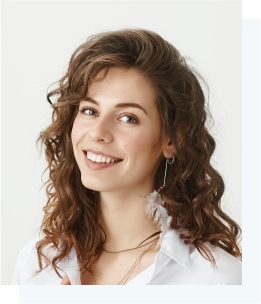
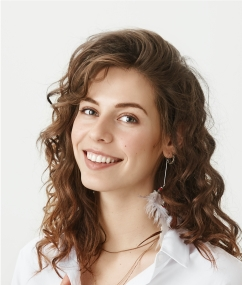
training

diff --git a/resources/assets/styles/components/objective.scss b/resources/assets/styles/components/objective.scss
@@ -7,22 +7,97 @@
   @media (max-width: 575px) {
     padding-top: 60px;
   }
+  &__bg-image {
+    float: right;
+    width: 100%;
+    max-width: 273px;
+    height: 153px;
+    position: relative;
+    @media (max-width: 767px) {
+      max-width: 150px;
+      height: 77px;
+    }
+    @media (max-width: 400px) {
+      max-width: 120px;
+      height: 55px;
+    }
+    &:before {
+      content: "";
+      position: absolute;
+      width: 100%;
+      height: 100%;
+      left: 25px;
+      top: 25px;
+      background: #f3f9fa;
+      z-index: -12;
+    }
+  }
+  &__line-bg {
+    width: 100%;
+    height: 100%;
+    position: relative;
+    &:first-child {
+      max-width: 306px;
+      margin-left: 16px;
+      margin-top: -82px;
+      height: 403px;
+      @media (max-width: 767px) {
+        max-width: 230px;
+        height: 300px;
+        margin-left: 0;
+      }
+      @media (max-width: 575px) {
+        max-width: 170px;
+        height: 250px;
+        margin-top: 0;
+      }
+    }
+    &:last-child {
+      margin-left: 90px;
+      margin-top: 125px;
+      max-width: 261px;
+      height: 304px;
+      @media (max-width: 1060px) {
+        margin-left: 40px;
+      }
+      @media (max-width: 767px) {
+        max-width: 130px;
+        height: 200px;
+        margin-top: 95px;
+        margin-left: 75px;
+      }
+      @media (max-width: 575px) {
+        max-width: 130px;
+        height: 150px;
+      }
+      @media (max-width: 400px) {
+        margin-left: 20px;
+      }
+    }
+    /*&:before {
+      content: "";
+      position: absolute;
+      width: 100%;
+      height: 100%;
+      left: 25px;
+      top: 25px;
+      background: #f3f9fa;
+      z-index: -12;
+    }*/
+  }
   &__right {
     width: 100%;
+    height: 100%;
     @media (max-width: 991px) {
       order: 1;
       display: flex;
       flex-direction: column;
       align-items: flex-end;
     }
-    img:first-child {
-      float: right;
-      @media (max-width: 767px) {
-        max-width: 150px;
-      }
-      @media (max-width: 400px) {
-        max-width: 120px;
-      }
+    &-img {
+      background-size: cover;
+      width: 100%;
+      height: 100%;
     }
   }
   &__content {
@@ -77,6 +152,9 @@
   &__left {
     max-width: 475px;
     width: 100%;
+    @media (max-width: 1200px) {
+      max-width: 412px;
+    }
     @media (max-width: 991px) {
       order: 2;
       display: flex;
@@ -95,6 +173,8 @@
   &__line {
     margin-top: 58px;
     display: flex;
+    height: 100%;
+    width: 100%;
     @media (max-width: 991px) {
       width: 100%;
       justify-content: center;
@@ -103,30 +183,9 @@
     @media (max-width: 767px) {
       margin-top: -40px;
     }
-    img {
+    &-img {
       width: 100%;
       height: 100%;
-      &:first-child {
-        max-width: 306px;
-        max-height: 403px;
-        @media (max-width: 767px) {
-          max-width: 170px;
-        }
-      }
-      &:last-child {
-        margin-left: 90px;
-        margin-top: 125px;
-        max-width: 261px;
-        max-height: 304px;
-        @media (max-width: 767px) {
-          max-width: 130px;
-          margin-top: 95px;
-          margin-left: 75px;
-        }
-        @media (max-width: 400px) {
-          margin-left: 20px;
-        }
-      }
     }
   }
 }

diff --git a/resources/assets/styles/components/training-hero.scss b/resources/assets/styles/components/training-hero.scss
@@ -15,7 +15,7 @@
   }
   &__content {
     display: flex;
-    justify-content: space-between;
+    justify-content: center;
     @media (max-width: 991px) {
       flex-direction: column;
     }
@@ -38,6 +38,7 @@
     }
     @media (max-width: 767px) {
       margin-right: 50px;
+      margin-left: 15px;
     }
     @media (max-width: 575px) {
       margin-right: 30px;
@@ -58,14 +59,23 @@
       }
     }
   }
-  &__img {
+  &__photo {
     width: 450px;
     height: 640px;
-    @media (max-width: 991px) {
-      max-width: 360px;
+    @media (max-width: 1200px) {
+      width: 354px;
+      height: 534px;
     }
     @media (max-width: 575px) {
-      max-width: 260px;
+      width: 254px;
+      height: 360px;
+    }
+  }
+  &__img {
+    &:before {
+      display: none;
+    }
+    @media (max-width: 575px) {
       margin-right: -80px;
     }
   }
@@ -79,6 +89,7 @@
     }
     @media (max-width: 1199px) {
       margin-top: 245px;
+      margin-left: 50px;
     }
     @media (max-width: 1040px) {
       margin-top: 180px;

diff --git a/resources/assets/styles/components/plants.scss b/resources/assets/styles/components/plants.scss
@@ -7,12 +7,13 @@
   &__left {
     display: flex;
     width: 100%;
+    position: relative;
     &-img {
       width: 100%;
       max-width: 493px;
       height: 434px;
       @media (max-width: 575px) {
-        max-width: 400px;
+        width: 400px;
         height: 355px;
         z-index: 12;
       }
@@ -33,8 +34,14 @@
       max-width: 400px;
       font-size: 48px;
       line-height: 64px;
+      @media (max-width: 1230px) {
+        position: absolute;
+        right: -162px;
+      }
       @media (max-width: 991px) {
         font-size: 41px;
+        position: relative;
+        right: 0;
       }
       @media (max-width: 767px) {
         font-size: 38px;
@@ -78,7 +85,7 @@
       position: relative;
       z-index: 9;
       @media (max-width: 1230px) {
-        margin-left: -70px;
+        margin-left: 70px;
       }
       @media (max-width: 991px) {
         margin: 70px auto 0 auto;

diff --git a/resources/assets/styles/common/_global.scss b/resources/assets/styles/common/_global.scss
@@ -195,6 +195,10 @@
     top: 25px;
     background: #f3f9fa;
     z-index: -12;
+    @media (max-width: 575px) {
+      left: 12px;
+      top: 12px;
+    }
   }
 }
 .bg-cover {
